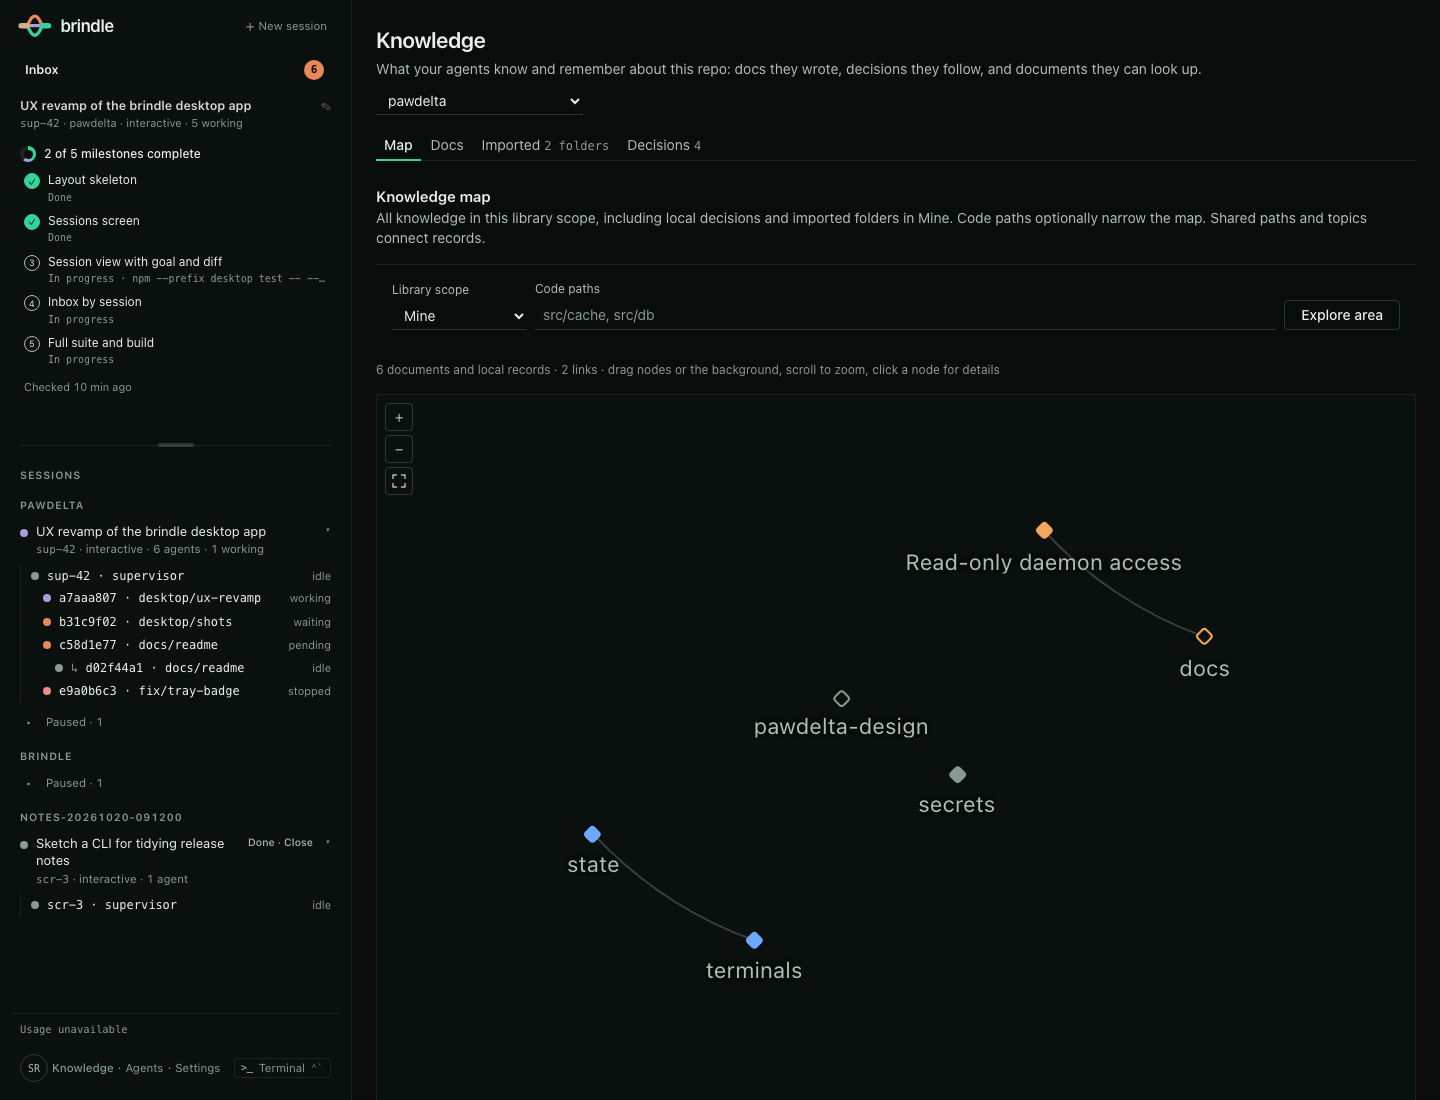
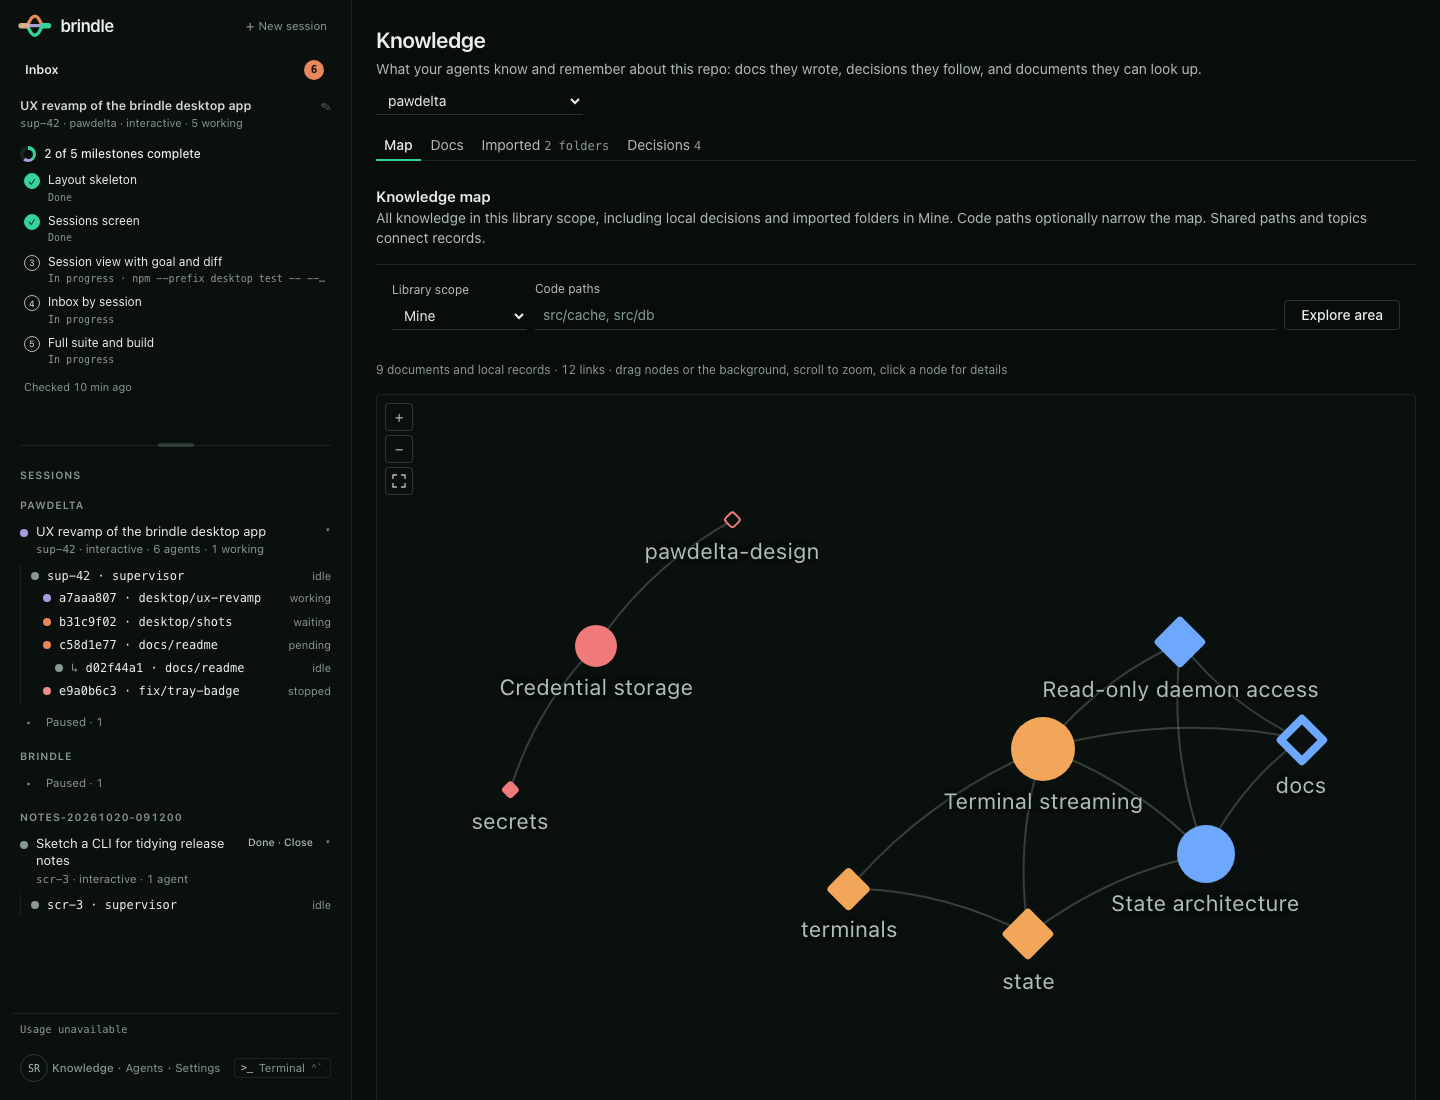
Include indexed local documents in the Knowledge map

diff --git a/app/src/screens/Knowledge/MapView.test.tsx b/app/src/screens/Knowledge/MapView.test.tsx
@@ -9,10 +9,14 @@ afterEach(cleanup);
 const decision: DecisionDTO = { id: "private-d", repo_key: "r", topic: "Storage policy", body: "Keep private notes here", rationale: "Local reason", scope: ["src/cache/**"], status: "accepted", created_at: 1, author_session: "local-session" };
 
 it("shows local knowledge on open when the server library is empty", async () => {
+  const local = [{ id: "local:kb:1", kind: "doc", title: "Indexed cache note", local_path: "/repo/src/cache/note.md", paths: ["src/cache/note.md"], topics: ["Storage policy"] },
+    { id: "local:kb:2", kind: "doc", title: "Indexed storage plan", local_path: "/outside/notes/storage.md", paths: ["/outside/notes/storage.md"], topics: ["Storage policy"] }];
+  const opened: string[] = [];
+  const openPath = async (path: string) => { opened.push(path); };
   const client = new DaemonClient({ baseUrl: "http://localhost", token: "t", fetch: async (input) => new Response(JSON.stringify(
-    String(input).includes("/scopes") ? { scopes: [{ kind: "user", id: "u1" }] } : { nodes: [], edges: [] },
+    String(input).includes("/scopes") ? { scopes: [{ kind: "user", id: "u1" }] } : { nodes: new URL(String(input)).searchParams.get("repo") === "/repo" ? local : [], edges: [] },
   )) });
-  const { container, rerender } = render(<MapView client={client} repo="/repo" decisions={[decision, { ...decision, id: "global", topic: "Repo policy", scope: [] }, { ...decision, id: "peer", scope: ["docs/**"] }]}
+  const { container, rerender } = render(<MapView client={client} repo="/repo" openPath={openPath} decisions={[decision, { ...decision, id: "global", topic: "Repo policy", scope: [] }, { ...decision, id: "peer", scope: ["docs/**"] }]}
     sources={[{ id: "cache", kind: "folder", scope: "/repo/src/cache", docs: 3 }, { id: "notes", kind: "folder", scope: "/outside/notes", docs: 1 }]} />);
   expect(await screen.findAllByRole("button", { name: /Storage policy/ })).toHaveLength(2);
   expect(screen.getByRole("button", { name: /Repo policy/ })).toBeTruthy();
@@ -20,8 +24,13 @@ it("shows local knowledge on open when the server library is empty", async () =>
   expect(screen.getByRole("button", { name: /Imported.*notes/ })).toBeTruthy();
   expect(container.querySelector('[data-source="local:decision:private-d"][data-target="local:source:cache"]')).not.toBeNull();
   expect(container.querySelector('[data-source="local:decision:private-d"][data-target="local:decision:peer"]')).not.toBeNull();
-  rerender(<MapView client={client} repo="/repo" decisions={[]} sources={[]} />);
-  expect(container.querySelector("[data-node]")).toBeNull();
+  expect(screen.getByRole("button", { name: /Indexed storage plan/ })).toBeTruthy();
+  expect(container.querySelector('[data-source="local:kb:1"][data-target="local:kb:2"]')).not.toBeNull();
+  expect(container.querySelector('[data-source="local:source:cache"][data-target="local:kb:1"]')).not.toBeNull();
+  fireEvent.click(screen.getByRole("button", { name: /Indexed cache note/ }));
+  expect(opened).toEqual(["/repo/src/cache/note.md"]);
+  rerender(<MapView client={client} repo="/empty" decisions={[]} sources={[]} />);
+  await waitFor(() => expect(container.querySelector("[data-node]")).toBeNull());
 });
 
 it.each([false, true])("applies a scope change immediately and discards older responses (pending: %s)", async (pending) => {

diff --git a/app/src/test/fakeDaemon.ts b/app/src/test/fakeDaemon.ts
@@ -55,6 +55,7 @@ export interface DaemonData {
   /* Optional hosted library fixtures, independent of the local KB. */
   docScopes?: import("../api/client").DocScope[];
   knowledgeMap?: import("../api/client").KnowledgeMap;
+  kbDocuments?: import("../api/client").MapNode[];
   profiles: ProfileDTO[];
   /* GET /profiles/{name}: what the resolved view adds to a listed profile
      (source, extends, rules, prompt, lint); a profile with no entry gets
@@ -2483,8 +2484,13 @@ export class FakeDaemon {
         return needRepo() ?? json(d.decisions);
       case "/analysis-docs/scopes":
         return json({ scopes: d.docScopes ?? [] });
-      case "/analysis-docs/map":
-        return json(d.knowledgeMap ?? { nodes: [], edges: [] });
+      case "/analysis-docs/map": {
+        const map = d.knowledgeMap ?? { nodes: [], edges: [] };
+        const paths = JSON.parse(query.paths ?? "[]") as string[];
+        const local = query.scope_kind === "user" ? (d.kbDocuments ?? []).filter((doc) =>
+          !paths.length || doc.paths?.some((path) => paths.some((p) => path === p || path.startsWith(`${p}/`)))) : [];
+        return json({ nodes: [...map.nodes, ...local], edges: map.edges });
+      }
       case "/kb/sources":
         return needRepo() ?? json(d.kbSources);
       case "/kb/search": {

diff --git a/app/shots/preview.tsx b/app/shots/preview.tsx
@@ -98,6 +98,11 @@ if (scene === "knowledge-map") {
     { kind: "org", id: "org_6e83ecddb131dfc35d43d5a8", name: "PawDelta" },
   ];
   daemon.data.knowledgeMap = { nodes: [], edges: [] };
+  daemon.data.kbDocuments = [
+    { id: "local:kb:1", kind: "doc", title: "State architecture", local_path: `${REPO}/docs/architecture.md`, paths: ["docs/architecture.md"], topics: ["state"], updated_at: 1793610000 },
+    { id: "local:kb:2", kind: "doc", title: "Terminal streaming", local_path: `${REPO}/docs/terminals.md`, paths: ["docs/terminals.md"], topics: ["terminals", "state"], updated_at: 1793610000 },
+    { id: "local:kb:3", kind: "doc", title: "Credential storage", local_path: "/home/sam/Notes/pawdelta-design/storage.md", paths: ["/home/sam/Notes/pawdelta-design/storage.md"], topics: ["secrets"], updated_at: 1793610000 },
+  ];
   daemon.data.decisions.push({ ...daemon.data.decisions[0], id: "daemon-reads", topic: "Read-only daemon access", scope: ["docs/**", "src/brindle/daemon/**"] });
 }
 if (scene === "settings-login" || scene === "settings-signin") {

diff --git a/app/src/screens/Knowledge/MapView.tsx b/app/src/screens/Knowledge/MapView.tsx
@@ -86,8 +86,9 @@ function MapArea({ client, repo, decisions, sources, openPath = openLocalPath }:
   };
   const select = (node: GraphNode) => {
     setOpen(node);
-    if (node.kind === "doc") setDoc(node.doc_id ?? node.id);
-    if (node.kind === "imported") void openPath(node.path).catch((e: unknown) => setError(message(e)));
+    if (node.kind === "doc" && !node.local_path) setDoc(node.doc_id ?? node.id);
+    const localPath = node.kind === "imported" ? node.path : node.kind === "doc" ? node.local_path : undefined;
+    if (localPath) void openPath(localPath).catch((e: unknown) => setError(message(e)));
     if (node.kind === "path" && node.path && area) { setInput(node.path); setArea({ scope: area.scope, paths: [node.path] }); }
   };
   return <section className="flex flex-col gap-s2" aria-label="Map" data-testid="map">

diff --git a/app/src/screens/Knowledge/MapGraph.tsx b/app/src/screens/Knowledge/MapGraph.tsx
@@ -189,6 +189,7 @@ function provenance(node: GraphNode, unrecorded = true): string[] {
   if (node.kind === "path") return [];
   if (node.kind === "decision") return [node.decision.author_session ? `Session ${node.decision.author_session}` : missing("Session/author unrecorded"), line("Local decision", date(node.decision.created_at))].filter(Boolean);
   if (node.kind === "imported") return [node.path, line("Imported on this device", scope(node.source.visibility), date(node.source.added_at))];
+  if (node.local_path) return [node.local_path, line("Indexed on this device", date(node.updated_at))];
   const source = node.source;
   return [
     line(source?.ref, source?.session && `Session ${source.session}`) || missing("Session/branch unrecorded"),

diff --git a/app/src/api/client.ts b/app/src/api/client.ts
@@ -434,6 +434,10 @@ export interface MapNode {
   kind: "doc" | "path";
   title?: string;
   doc_id?: string;
+  /* Indexed on this device: open the file instead of the hosted doc reader. */
+  local_path?: string;
+  updated_at?: number;
+  topics?: string[];
   path?: string;
   paths?: string[];
   source?: DocSource;

diff --git a/src/brindle/kb.py b/src/brindle/kb.py
@@ -20,7 +20,9 @@ import re
 import time
 import uuid
 from dataclasses import dataclass, field
+from fnmatch import fnmatch
 from pathlib import Path
+from urllib.parse import unquote, urlsplit
 
 from brindle import knowledge, secrets
 from brindle.db import DB
@@ -416,6 +418,37 @@ def sources(db: DB, repo_key: str, library_identity: str | None = None) -> list[
         r["in_library"] = r["library_state"] == "in_library"
         r["library_removing"] = max(1, r["library_removing"]) if r["library_state"] == "removing" else 0
     return rows
+
+
+def map_documents(db: DB, repo_root: str, paths: list[str]) -> list[dict]:
+    """Local file metadata for the map; never read files or return chunk text.
+
+    Tombstones and documents with only quarantined chunks stay out, matching
+    search visibility. Headings supply the indexed documents' shared topics.
+    """
+    rows = db.conn.execute(
+        "SELECT d.id, d.title, d.url, d.updated_at, s.scope,"
+        " json_group_array(DISTINCT c.heading_path) FILTER (WHERE c.heading_path IS NOT NULL) AS topics"
+        " FROM kb_docs d JOIN kb_sources s ON s.id = d.source_id"
+        " LEFT JOIN kb_chunks c ON c.doc_id = d.id AND c.quarantined IS NULL"
+        " WHERE s.repo_key = ? AND s.kind = 'folder' AND NOT d.tombstoned"
+        " AND (c.id IS NOT NULL OR NOT EXISTS (SELECT 1 FROM kb_chunks x WHERE x.doc_id = d.id))"
+        " GROUP BY d.id ORDER BY d.id", (knowledge.repo_key(repo_root),))
+    nodes = []
+    for row in rows:
+        url = urlsplit(row["url"] or "")
+        if url.scheme != "file" or url.netloc not in ("", "localhost"):
+            continue
+        local = Path(unquote(url.path))
+        if not local.is_absolute():
+            continue
+        path = local.relative_to(repo_root).as_posix() if local.is_relative_to(repo_root) else str(local)
+        if paths and not any(path == p or path.startswith(p.rstrip("/") + "/") or fnmatch(path, p) for p in paths):
+            continue
+        nodes.append({"id": f"local:kb:{row['id']}", "kind": "doc", "title": row["title"] or local.name,
+                      "local_path": str(local), "paths": [path], "topics": [t for t in json.loads(row["topics"]) if t],
+                      "source": {"kind": "folder", "ref": row["scope"]}, "updated_at": row["updated_at"]})
+    return nodes
 
 
 def find_source(db: DB, repo_key: str, ref: str) -> str:

diff --git a/tests/test_daemon_api.py b/tests/test_daemon_api.py
@@ -981,6 +981,32 @@ def test_doc_map_proxies_only_a_neighbourhood_without_caching(brindle_home, monk
     assert len(calls) == 4
 
 
+def test_doc_map_includes_live_local_documents_only_in_their_repo_and_personal_scope(db, repo, monkeypatch):
+    from urllib.parse import urlencode
+
+    from brindle.daemon import routes_read
+
+    monkeypatch.setattr(routes_read, "docs_api", lambda *a, **kw: {"docs": [], "nodes": [], "edges": []})
+    source = kb_mod.add_source(db, knowledge.repo_key(str(repo)), "folder", str(repo / "docs"))
+    other = kb_mod.add_source(db, "another-repo", "folder", "/other/docs")
+    with db.tx() as c:
+        for i, (src, dead, quarantine) in enumerate([(source, 0, None), (source, 1, None), (source, 0, "unsafe"), (other, 0, None)]):
+            c.execute("INSERT INTO kb_docs (id, source_id, external_id, url, title, content_hash, tombstoned)"
+                      " VALUES (?, ?, ?, ?, ?, 'hash', ?)",
+                      (i + 1, src, f"{i}.md", (repo / "docs" / f"{i}.md").as_uri(), f"Note {i}", dead))
+            c.execute("INSERT INTO kb_chunks (id, doc_id, heading_path, text, quarantined) VALUES (?, ?, 'Storage', 'body', ?)",
+                      (f"chunk-{i}", i + 1, quarantine))
+    query = {"repo": str(repo), "scope_kind": "user", "scope_id": "u1"}
+    code, body = _get("/v1/analysis-docs/map", AUTH, urlencode(query))
+    docs = [n for n in body["nodes"] if n["kind"] == "doc"]
+    assert code == 200 and len(docs) == 1
+    assert docs[0]["local_path"] == str(repo / "docs/0.md")
+    assert docs[0]["paths"] == ["docs/0.md"] and docs[0]["topics"] == ["Storage"]
+    assert _get("/v1/analysis-docs/map", AUTH, urlencode(query | {"paths": '["docs"]'}))[1]["nodes"] == docs
+    assert _get("/v1/analysis-docs/map", AUTH, urlencode(query | {"scope_kind": "group"}))[1]["nodes"] == []
+    assert _get("/v1/analysis-docs/map", AUTH, urlencode(query | {"paths": '["src"]'}))[1]["nodes"] == []
+
+
 def test_doc_map_whole_scope_uses_list_with_provenance_and_connections(brindle_home, monkeypatch):
     from urllib.parse import parse_qs, urlencode, urlsplit
 

diff --git a/src/brindle/daemon/routes_read.py b/src/brindle/daemon/routes_read.py
@@ -789,6 +789,8 @@ def analysis_doc_map(db: DB, request: Request) -> Any:
     listed = docs_api("GET", "/analysis-docs", repo=_repo(request), query=query)
     docs = {d["doc_id"]: {**d, "scope": d.get("scope") or scope}
             for d in listed.get("docs") or [] if isinstance(d, dict) and isinstance(d.get("doc_id"), str)}
+    # Local documents belong to the repo on this device, never a shared scope.
+    local = kb.map_documents(db, _need_repo(request), paths) if scope["kind"] == "user" else []
 
     def doc_paths(doc: dict) -> list[str]:
         declared = doc.get("paths") or []
@@ -814,8 +816,8 @@ def analysis_doc_map(db: DB, request: Request) -> Any:
         ids = {n["id"] for n in nodes}
         edges = [{"source": e["from"], "target": e["to"], "kind": e["kind"]}
                  for e in got.get("edges") or [] if e.get("from") in ids and e.get("to") in ids]
-        return {"nodes": nodes, "edges": edges}
-    nodes, edges = [], []
+        return {"nodes": [*nodes, *local], "edges": edges}
+    nodes, edges = list(local), []
     seen_paths = set()
     for doc_id, doc in docs.items():
         files = doc_paths(doc)

diff --git a/app/shots/README.md b/app/shots/README.md
@@ -50,7 +50,7 @@ the session, each pane its provider's own in the state its row shows),
 org's policy), `agents-make` (Medium's model list open, the custom agent
 builder under it),
 `knowledge` (three decisions as cards, two document folders),
-`knowledge-map` (Map on open: zero hosted docs in three scopes, local decisions and imported folders),
+`knowledge-map` (Map on open: zero hosted docs in three scopes, local decisions, imported folders and indexed KB documents),
 `knowledge-record` (the record form open), `knowledge-search` (a search
 with a decision and two document passages found), `knowledge-empty` (a
 repo with no knowledge yet: how it gets there), `knowledge-add` (the add
